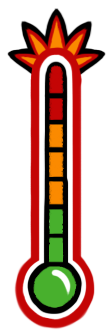
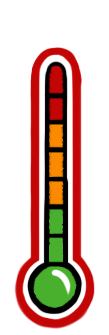
Test and fix 2
-Renamed some sprites for consistency
-Deleted unnecessary sprites
-Made minor fixes within scene
-Renamed method according to naming conventions

Changed region(s): [[0.055, 0.0, 0.9633, 0.2388]]

diff --git a/Chillichomp/Chillichomp/Assets/AR_asset/Script/FaceFilterSwitch.cs b/Chillichomp/Chillichomp/Assets/AR_asset/Script/FaceFilterSwitch.cs
@@ -1,5 +1,6 @@
 namespace GoogleARCore.Examples.AugmentedFaces
 {
+    using System.Collections;
     using System.Collections.Generic;
     using GoogleARCore;
     using UnityEngine;
@@ -24,9 +25,18 @@
         private List<int> m_MeshIndices = new List<int>();
         private Mesh m_Mesh = null;
         private bool m_MeshInitialized = false;
-
+        //Face filter gameobject
         public GameObject Filter;
-        private bool Filter_switch=false;
+        //face filter switch
+        private bool Filter_switch = false;
+        //Timer that detects the shake interval
+        private float timer = 0;
+        private float interval = 0;
+        //head direction
+        private Vector3 head_direction;
+        //detects
+        private bool head_move_right = false;
+        private bool shake_heads = false;
         /// <summary>
         /// Gets or sets the ARCore AugmentedFace object that will be used to update the face mesh data.
         /// </summary>
@@ -99,28 +109,62 @@
                 // Only update mesh indices and uvs once as they don't change every frame.
                 m_MeshInitialized = true;
             }
+
+            DetectHeadShaking();
             Filter.gameObject.SetActive(Filter_switch);
         }
 
         public bool DetermineMouth()
         {
-            if(Filter_switch)
+            if (Filter_switch)
             {
                 return false;
             }
             float a1 = m_MeshNormals[14].y - m_MeshNormals[13].y;
-            print("mouth_date"+a1);
-            if(a1<0.97)
+            //float a2 = m_MeshNormals[87].y - m_MeshNormals[82].y;
+            //float a3 = m_MeshNormals[317].y - m_MeshNormals[312].y;
+            if (a1 < 0.95)
             {
                 return true;
             }
             return false;
         }
-
         public void SetFaceFilterState(bool a)
         {
             Filter_switch = a;
         }
+        public void DetectHeadShaking()
+        {
+            head_direction = m_AugmentedFace.CenterPose.rotation.eulerAngles;
+            //print("head_direction " + head_direction);
+            timer += Time.deltaTime;
+            shake_heads = false;
+            if (head_direction.y > 25 && head_direction.y < 60)
+            {
+                print("shake_heads" + shake_heads);
+                head_move_right = true;
+                interval = timer;
+            }
+            else if (head_move_right && (timer - interval) < 0.5f)
+            {
+                if (head_direction.y < 338 && head_direction.y > 300)
+                {
+                    shake_heads = true;
+                    head_move_right = false;
+                    //StartCoroutine(initialization());
+                }
+            }
+        }
 
+        //IEnumerator Initialization()
+        //{
+        //    yield return new WaitForSeconds(0.5f);
+        //    shake_heads = false;
+        //}
+
+        public bool DetermineShakeHands()
+        {
+            return shake_heads;
+        }
     }
 }

diff --git a/Chillichomp/Chillichomp/Assets/AR_asset/Script/ThermometerControl.cs b/Chillichomp/Chillichomp/Assets/AR_asset/Script/ThermometerControl.cs
@@ -25,9 +25,9 @@ public class ThermometerControl : MonoBehaviour
         {
             sr_.sprite = allSprites_[level];
         }
-        if(level>7)
+        if(level > 7)
         {
-            sr_.sprite = allSprites_[7];
+            sr_.sprite = allSprites_[8];
             GameObject.Find("GameObjectControl").GetComponent<FaceFilterSwitch>().SetFaceFilterState(true);
             timer += Time.deltaTime;
             if(timer >= 7)
